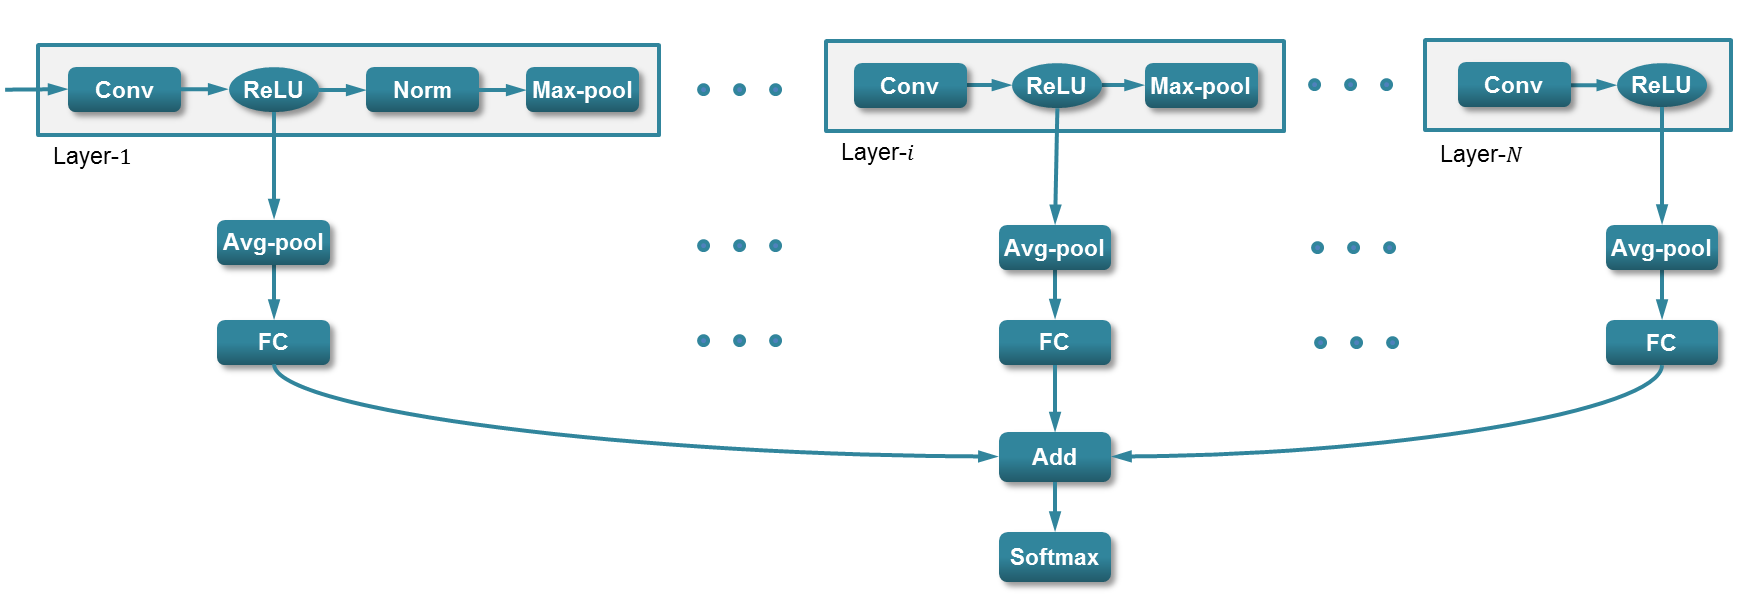
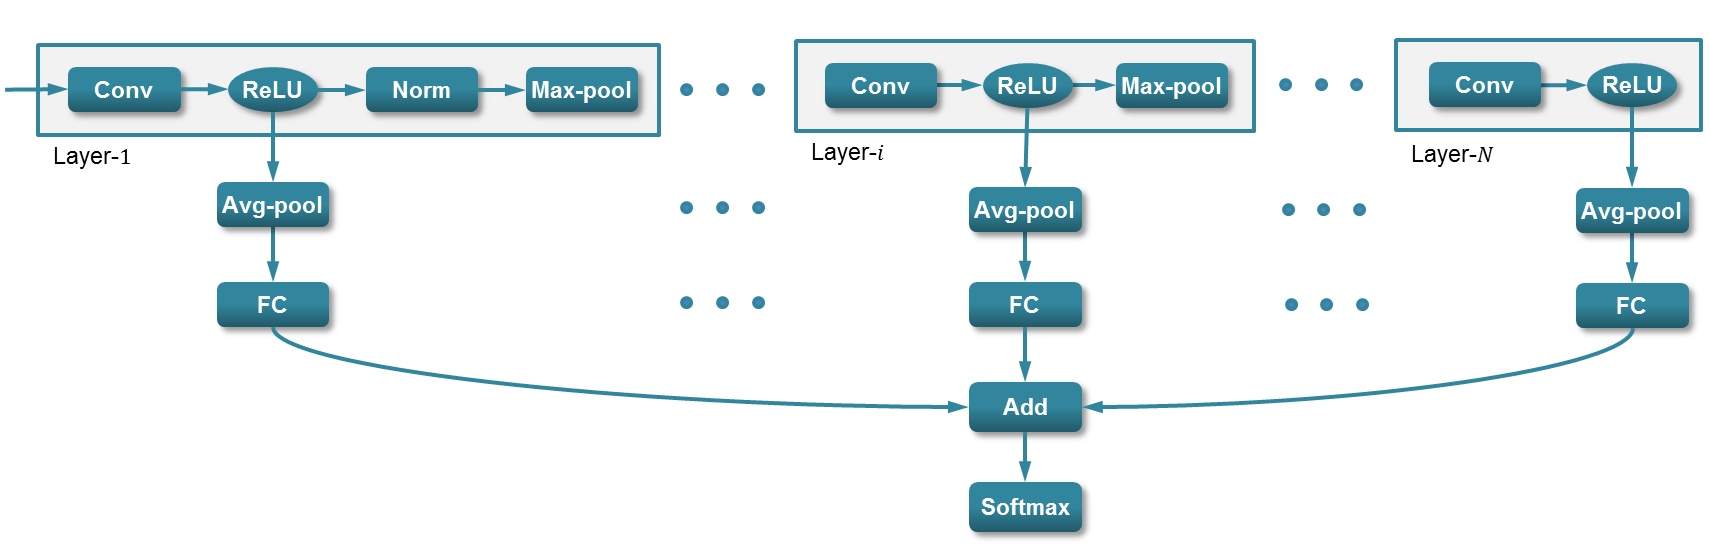
address questions

diff --git a/BoMSA_review.tex b/BoMSA_review.tex
@@ -18,7 +18,7 @@
 \usepackage[pagebackref=true,breaklinks=true,letterpaper=true,colorlinks,bookmarks=false]{hyperref}
 
 \newcommand{\deva}[1]{\textcolor{red}{[Deva: #1]}}
-
+\newcommand{\songfan}[1]{\textcolor{blue}{[Songfan: #1]}}
 
 % \cvprfinalcopy % *** Uncomment this line for the final submission
 
@@ -72,6 +72,9 @@ Deep convolutional neural nets (CNNs), pioneered by Lecun and collaborators~\cit
 
 {\bf Hierarhical  models:}  CNNs are 
 hierarchical feed-forward architectures that compute progressively invariant representations of the input image. However, the appropriate level of invariance might be task-dependent. Distinguishing people and dogs requires a representation that is robust to large spatial deformations, since people and dogs can articulate. However, fine-grained categorization of car models (or bird species) requires fine-scale features that capture subtle shape cues. We argue that a universal architecture capable of both tasks must employ some form of multi-scale features for output prediction.
+
+\begin{figure*}
+\centering
 	\subfigure[low-level feature is preferred]{\includegraphics[width=.9\textwidth]{fig/moti_low_better.png}\label{fig:moti_low}}
 	\subfigure[high-level feature is preferred]{\includegraphics[width=.9\textwidth]{fig/moti_high_better.png}\label{fig:moti_high}}
 
@@ -98,7 +101,7 @@ hierarchical feed-forward architectures that compute progressively invariant rep
 
 {\bf DAG-structured Neural Networks:} DAG-structured neural nets have been previously explored in the context of recurrent neural nets \cite{baldi2003principled,graves2009offline}. Recurrent neural nets use feedback to capture dynamic states, and so typically cannot be processed with feedforward computations. Previous work has also shown that long-range connections between neural layers can eliminate the vanshing gradient problem, but this is done in the context of memory-based networks~\cite{hochreiter1997long}. We make use of DAG structures to efficiently encode multi-scale features in a simpler feed-forward network.
 
-{\bf Overview:} We motivate our multi-scale DAG-CNN model in \ref{sec:approach}, describe the full architecture in Sec.~\ref{sec:ana}, and conclude with numerous benchmark results in Sec.~\ref{sec:exp}. We evaluate multi-scale DAG-structured variants of existing CNN architectures (\eg, Caffe~\cite{Caffe}, Deep19~\cite{veryDeep}) on a variety of scene recognition benchmarks including SUN397~\cite{SUN397}, MIT67~\cite{MIT67}, Scene15~\cite{Scene15}. We observe a consistent improvement regardless of the underlying CNN architecture, producing state-of-the-art results on all 3 datasets.
+{\bf Overview:} We motivate our multi-scale DAG-CNN model in Sec.~\ref{sec:motivation}, describe the full architecture in Sec.~\ref{sec:ana}, and conclude with numerous benchmark results in Sec.~\ref{sec:exp}. We evaluate multi-scale DAG-structured variants of existing CNN architectures (\eg, Caffe~\cite{Caffe}, Deep19~\cite{veryDeep}) on a variety of scene recognition benchmarks including SUN397~\cite{SUN397}, MIT67~\cite{MIT67}, Scene15~\cite{Scene15}. We observe a consistent improvement regardless of the underlying CNN architecture, producing state-of-the-art results on all 3 datasets.
 
 %A consistent performance improvement is observed of our multi-scale representation over the best discriminative single-scale feature. 
 %The rest of the paper is organized as follows: we motivate and describe our model augmentation approach in Sec.~
@@ -119,21 +122,20 @@ We evaluate both models on the heavily benchmarked MIT Indoor Scene (MIT67) data
 %-------------------------------------------------------------------------
 %\subsection{Single-scale classificationScale\label{sec:indi_scale}}
 
-We plot the performance of single-layer classifiers in Fig.~\ref{fig:layer_MIT67}. The detailed parameter options for both Caffe and Deep19 models are described later in Sec.~\ref{sec:exp}. As past work has pointed out, we see a general increase in performance as we use higher-level (more invariant) features. We do see a slight improvement at each nonlinear activation (RelU) layer. This makes sense as this layer introduces a nonlinear rectification operation $\max(0,x)$, while other layers (such an convolutional or sum-pooling) are linear operations that can be learned by a linear predictor.
 \begin{figure}[htbp]
 \centering
 	\subfigure[Caffe]{\includegraphics[width=\columnwidth]{fig/fig_layer_caffe.png}\label{fig:layer_caffe}}
 	\subfigure[Deep19]{\includegraphics[width=\columnwidth]{fig/fig_layer_deep19.png}\label{fig:layer_deep19}}
-\caption{The classification accuracy on MIT67~\cite{MIT67} using activations from each layer. We use a solid color fill representing the output of a ReLU layer. There are 7 ReLU layer for the Caffe model and 18 for Deep19. We see tend to see a performance jump at each successive RelU layer, particularly earlier on in the model.}
+\caption{The classification accuracy on MIT67~\cite{MIT67} using activations from each layer. We use a solid color fill representing the output of a ReLU layer. There are 7 ReLU layers for the Caffe model and 18 for Deep19. We see tend to see a performance jump at each successive RelU layer, particularly earlier on in the model.}
 \label{fig:layer_MIT67}
 \end{figure}
 
 {\bf Single-scale classification:} Following past work \cite{cnn_baseline}, we train a linear SVM classifier using features extracted from a particular layer. We specifically train $K=67$ 1-vs-all linear classifiers.
 We plot the performance of single-layer classifiers in~\ref{fig:layer_MIT67}. The detailed parameter options for both Caffe and Deep19 models are described later in Sec.~\ref{sec:exp}. As past work has pointed out, we see a general increase in performance as we use higher-level (more invariant) features. We do see a slight improvement at each nonlinear activation (ReLU) layer. This makes sense as this layer introduces a nonlinear rectification operation $\max(0,x)$, while other layers (such an convolutional or sum-pooling) are linear operations that can be learned by a linear predictor.
+
+
+
 %As seen in Fig.~\ref{fig:layer_MIT67}, in general, the discriminativeness of the model increases as the layer becomes higher. More importantly, we observe significant improvement resulting from each Rectified Linear Units (ReLU). As described in~\cite{ReLU,AlexNet}, ReLU models a neuron's output $r$ as a mapping of its input $x$ with the non-saturating nonlinearity $r(x)=\max (0,x)$. We are then motivated to choose the output of the ReLU layer due to this nonlinearity it introduces to the CNN architecture, which boosts the discriminative power of the model. 
-
-
-
 
 %Concretely, to compute the proposed representation, let $\alpha_i$ of dimension $w\times h\times k$ be the output of ReLU at $i$-th layer ($w=h$ in most CNN models). Each $w\times h$ is the Conv. response map of one of the $k$ filters. It carries the spatial activation information at the current scale. Thus, the \textit{orderless} response, $f_i$, at each scale can be computed by sum-pooling the first two dimension of $\alpha_i$, resulting in a $k$-dimensional vector, \ie,
 %
@@ -158,11 +160,11 @@ Our observations suggest that high and mid-level features (\ie, \textit{parts} a
 \centering
 	\subfigure[Caffe]{\includegraphics[width=.43\columnwidth]{fig/fig_add_back_caffe.png}\label{fig:add_back_caffe}}
 	\subfigure[Deep19]{\includegraphics[width=.56\columnwidth]{fig/fig_add_back_deep19.png}\label{fig:add_back_deep19}}
-\caption{The performance trend when incorporating more lower-level features. The keyword ``all'' means the previously added average-pooled ReLUs. \deva{Remove all. Why does Deep19 start with layer 42, while Fig3 suggests Deep19 has 20 layers?}. Performance increases as we add mid-layer features, while low-level features prove less helpful.}%performance drop is observed when incorporating more low level features.}
+\caption{The performance trend when incorporating more lower-level features. The keyword ``all'' means the previously added average-pooled ReLUs. \deva{Remove all. Why does Deep19 start with layer 42, while Fig3 suggests Deep19 has 20 layers?}. \songfan{I forgot to mention that the figure was there for placeholder. Layer analysis Figure for Deep19 is now been updated}. Performance increases as we add mid-layer features, while low-level features prove less helpful.}%performance drop is observed when incorporating more low level features.}
 \label{fig:add_back}
 \end{figure}
 
-A more systematic way for select the correct scale to incorporate as feature is feature forward selection, \ie, greedily add the layer in the ReLU pool which results in the best performance boost in an iterative manner. As seen in Fig.~\ref{fig:forward_select_caffe}, the optimal results of this greedy approach is congruent with the previous results in Fig.~\ref{fig:add_back_caffe}, which rejects the low-level features. Similarly for the Deep19 model in Fig.~\ref{fig:forward_select_deep19}, although the feature pool is large (18 ReLU layers), the optimal greedy results includes only the mid- or high-level features. \deva{I don't understand the difference between Fig4 + 5?}
+A more systematic way for selecting the correct scale to incorporate as feature is feature forward selection, \ie, greedily add the layer in the ReLU pool which results in the best performance boost in an iterative manner. As seen in Fig.~\ref{fig:forward_select_caffe}, the optimal results of this greedy approach is congruent with the previous results in Fig.~\ref{fig:add_back_caffe}, which rejects the low-level features. Similarly for the Deep19 model in Fig.~\ref{fig:forward_select_deep19}, although the feature pool is large (18 ReLU layers), the optimal greedy results includes only the mid- or high-level features. \deva{I don't understand the difference between Fig4 + 5?} \songfan{Fig4 is adding one ReLU layer at a time from back to front. This is done for all ReLU layers with no selection at all. Fig5 is the result of forward selection. Basically, the reasoning here for Multi-scale analysis is that: (1) Does it help to include all ReLU layers? Fig4 shows this is not true. The performance drops when adding low-level features; (2) What are the correct layers to add then? Do a forward selection to find the ``best'' combination. The result of forward selection also confirms that low-levels do hurt the performance. Thus, the algorithm rejects them.}
 
 \begin{figure}[htbp]
 \centering
@@ -184,7 +186,7 @@ Based on the analysis in Sec.~\ref{sec:motivation}, we propose a novel deep DAG-
 \begin{figure*}[t!]
 \centering
 	\includegraphics[width=\textwidth]{fig/fig_model.png}
-\caption{Our multi-scale DAG-CNN architecture is constructed by adding (marginalized) multi-scale output connections to an underlying {\em chain backbone} from the original CNN.\deva{Change formatting to reduce verticle space (too much whitespace)}}
+\caption{Our multi-scale DAG-CNN architecture is constructed by adding (marginalized) multi-scale output connections to an underlying {\em chain backbone} from the original CNN.\deva{Change formatting to reduce verticle space (too much whitespace)}. \songfan{Does this make sense?}}
 \label{fig:model}
 \end{figure*}
 
